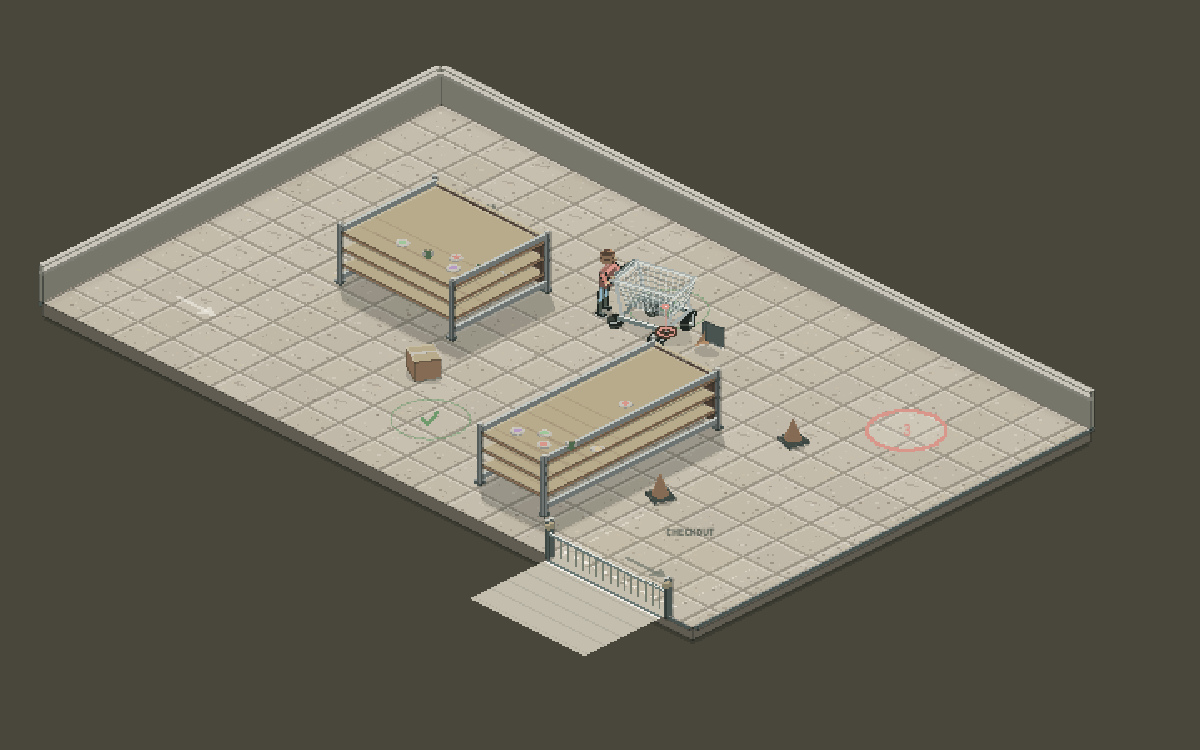
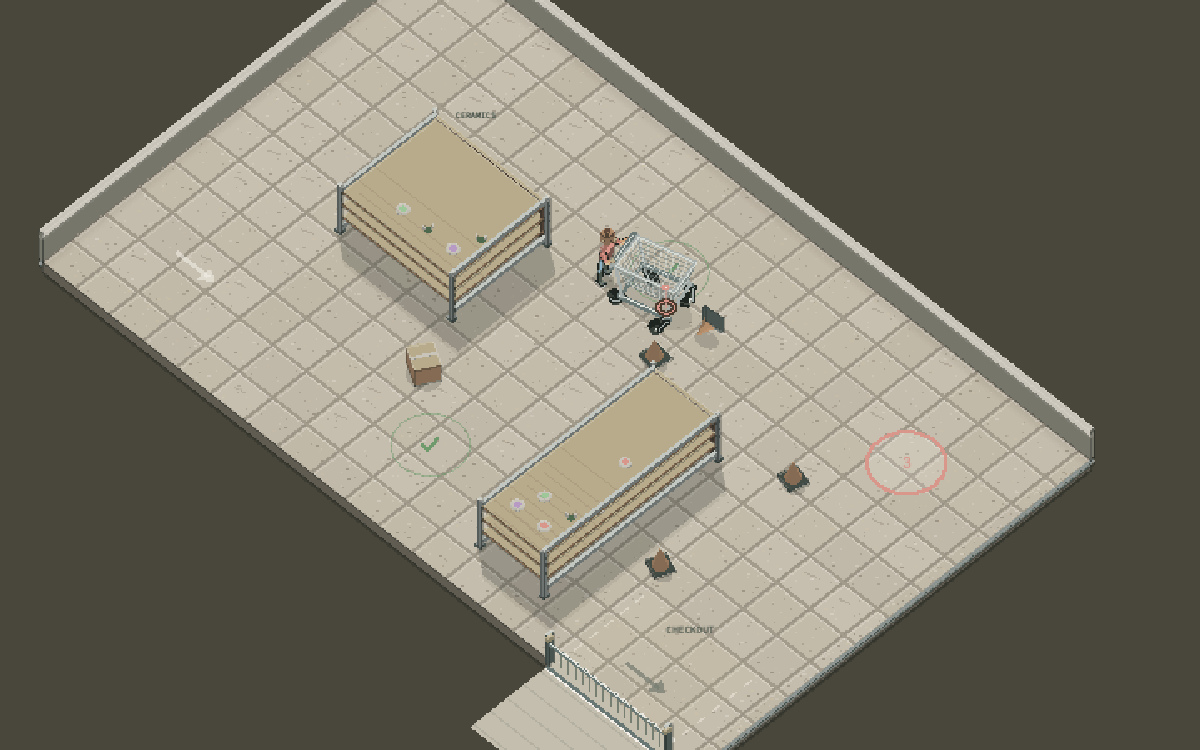
Raise the All Four Wheels camera for a clearer overhead view

diff --git a/four-wheels.html b/four-wheels.html
@@ -30,7 +30,7 @@
   <link rel="icon" type="image/png" sizes="32x32" href="/favicon-32.png">
   <link rel="apple-touch-icon" href="/apple-touch-icon.png">
   <link rel="stylesheet" href="style.css">
-  <link rel="stylesheet" href="four-wheels.css?v=14">
+  <link rel="stylesheet" href="four-wheels.css?v=15">
 </head>
 <body class="cart-page">
   <div class="site-wrapper">
@@ -61,7 +61,7 @@
           </header>
 
           <div class="cart-stage" id="cart-stage">
-            <canvas id="cart-canvas" width="720" height="480" tabindex="0" aria-label="Isometric shopping cart obstacle course. Touch each numbered checkpoint with the coral marker inside the basket. W or up to push, S or down to pull, A and D or left and right to turn, space to brake, P to pause, R to retry." aria-describedby="cart-instructions">This game needs a browser with canvas support. Touch each numbered checkpoint with the coral marker inside the basket, then drive out through checkout.</canvas>
+            <canvas id="cart-canvas" width="720" height="580" tabindex="0" aria-label="Isometric shopping cart obstacle course. Touch each numbered checkpoint with the coral marker inside the basket. W or up to push, S or down to pull, A and D or left and right to turn, space to brake, P to pause, R to retry." aria-describedby="cart-instructions">This game needs a browser with canvas support. Touch each numbered checkpoint with the coral marker inside the basket, then drive out through checkout.</canvas>
             <button class="cart-camera" id="cart-camera" type="button" aria-label="Show the whole course" aria-pressed="false" hidden>Overview</button>
             <div class="cart-overlay" id="cart-overlay" role="dialog" aria-modal="false" aria-labelledby="cart-overlay-title">
               <div class="cart-overlay-card">
@@ -136,11 +136,11 @@
     <footer class="site-footer"><div class="site-footer-inner"><a href="/">&copy; 2026 Ethan Willingham</a></div></footer>
   </div>
   <script src="js/main.js"></script>
-  <script src="js/four-wheels-stock.js?v=14"></script>
-  <script src="js/four-wheels-physics.js?v=14"></script>
-  <script src="js/four-wheels-levels.js?v=14"></script>
-  <script src="js/four-wheels-view.js?v=14"></script>
-  <script src="js/four-wheels.js?v=14"></script>
+  <script src="js/four-wheels-stock.js?v=15"></script>
+  <script src="js/four-wheels-physics.js?v=15"></script>
+  <script src="js/four-wheels-levels.js?v=15"></script>
+  <script src="js/four-wheels-view.js?v=15"></script>
+  <script src="js/four-wheels.js?v=15"></script>
   <script src="js/backtotop.js"></script>
 </body>
 </html>

diff --git a/js/four-wheels-view.js b/js/four-wheels-view.js
@@ -1,10 +1,11 @@
-/* All Four Wheels: a shared 2:1 isometric pixel renderer.
+/* All Four Wheels: a shared high-angle isometric pixel renderer.
  * The simulation stays in store coordinates. Every visible floor point,
  * caster, body, piece of furniture and airborne product uses this camera.
  */
 (function (root) {
   'use strict';
-  const CAMERA = Object.freeze({ width:720, height:480, x:264, y:70, horizontal:.84, vertical:.42, elevation:.95 });
+  // A roughly 52-degree pitch opens the basket and floor while retaining height.
+  const CAMERA = Object.freeze({ width:720, height:580, x:264, y:24, horizontal:.84, vertical:.66, elevation:.74 });
   const VIEW_Z = CAMERA.vertical * 2 / CAMERA.elevation;
   const project = (p, origin = CAMERA) => ({ x:origin.x + (p.x-p.y)*CAMERA.horizontal, y:origin.y + (p.x+p.y)*CAMERA.vertical - (p.z||0)*CAMERA.elevation });
   function unproject(p, z=0, origin=CAMERA) {
@@ -604,13 +605,13 @@
         }
         // The live overview uses the exact frame, with the current camera
         // rectangle and cart position, rather than a second map implementation.
-        const mw=144,mh=96,mx=width-mw-14,my=14;
+        const mapScale=.2,mw=CAMERA.width*mapScale,mh=CAMERA.height*mapScale,mx=width-mw-14,my=14;
         rect(g,mx-3,my-3,mw+6,mh+6,P.hairDark);g.drawImage(frame,mx,my,mw,mh);
         g.save();g.beginPath();g.rect(mx,my,mw,mh);g.clip();
-        const a={x:mx+(-camera.x/camera.scale)/5,y:my+(-camera.y/camera.scale)/5};
-        const b={x:a.x+width/camera.scale/5,y:a.y+height/camera.scale/5};
+        const a={x:mx+(-camera.x/camera.scale)*mapScale,y:my+(-camera.y/camera.scale)*mapScale};
+        const b={x:a.x+width/camera.scale*mapScale,y:a.y+height/camera.scale*mapScale};
         line(g,a,{x:b.x,y:a.y},P.light);line(g,{x:b.x,y:a.y},b,P.light);line(g,b,{x:a.x,y:b.y},P.light);line(g,{x:a.x,y:b.y},a,P.light);
-        const q=project(w.body);rect(g,mx+q.x/5-1,my+q.y/5-1,3,3,P.coral);g.restore();
+        const q=project(w.body);rect(g,mx+q.x*mapScale-1,my+q.y*mapScale-1,3,3,P.coral);g.restore();
       }
       g.restore();
     }

diff --git a/four-wheels.css b/four-wheels.css
@@ -120,7 +120,7 @@
 .cart-course-tile { position: relative; text-align: left; border: 1px solid var(--cart-line); border-radius: 8px; background: var(--cart-paper); color: var(--cart-ink); overflow: hidden; padding: 0; }
 .cart-course-tile:hover, .cart-course-tile.is-current { border-color: var(--cart-ink); box-shadow: 0 3px 0 var(--cart-ink); }
 .cart-course-tile.is-current::after { content: 'SELECTED'; position: absolute; top: .65rem; right: .65rem; padding: .3rem .5rem; border-radius: 3px; background: var(--cart-ink); color: var(--cart-paper); font-family: var(--font-mono); font-size: .55rem; letter-spacing: .06em; }
-.cart-course-tile canvas { display: block; width: 100%; aspect-ratio: 3 / 2; image-rendering: pixelated; border-bottom: 1px solid var(--cart-line); }
+.cart-course-tile canvas { display: block; width: 100%; aspect-ratio: 36 / 29; image-rendering: pixelated; border-bottom: 1px solid var(--cart-line); }
 .cart-course-tile-copy { display: block; padding: 1rem; }
 .cart-course-tile strong { display: block; margin-top: .35rem; font-family: var(--font-body); font-size: 1.2rem; font-weight: 700; letter-spacing: -.025em; }
 .cart-course-tile-meta { display: flex; justify-content: space-between; gap: .4rem; margin-top: .7rem; padding-top: .65rem; border-top: 1px dashed var(--cart-line); font-family: var(--font-mono); font-size: .58rem; color: var(--cart-muted); }

diff --git a/docs/FOUR_WHEELS.md b/docs/FOUR_WHEELS.md
@@ -14,10 +14,11 @@ feature flags, or build step.
 - `js/four-wheels-view.js`: shared isometric camera, pixel rasterizer and 3D scene.
 - `js/four-wheels.js`: input, audio, UI, fixed-step loop and local records.
 
-The canvas is 720 by 480 pixels and scales with image smoothing disabled.
-The physical store remains 480 by 300 world units. The shared 2:1 isometric
-camera projects every point as x = 264 + 0.84(x - y),
-y = 70 + 0.42(x + y) - 0.95z. Changing the camera does not change course
+The canvas is 720 by 580 pixels and scales with image smoothing disabled.
+The physical store remains 480 by 300 world units. The shared isometric camera
+looks down at roughly 52 degrees above the floor, opening up shelf tops and the
+empty basket. It projects every point as x = 264 + 0.84(x - y),
+y = 24 + 0.66(x + y) - 0.74z. Changing the camera does not change course
 geometry, forces, deadlines or saved records. Its inverse is exported for
 verification. Keyboard and touch controls remain relative to the cart's heading.
 Art is drawn locally from the site's warm palette, with silver metal for the
@@ -33,7 +34,7 @@ The page opens directly into the game, following Sluice's layout. The shell is
 route status and keyboard or touch controls. Desktop and landscape contain the
 whole course without stretching or cropping.
 Portrait uses a 480-pixel-wide canvas matching the stage's aspect ratio. The
-renderer first draws the same 720-by-480 scene, then presents a closer 1.8x
+renderer first draws the same 720-by-580 scene, then presents a closer 1.8x
 following view with nearest-pixel scaling. A live overview shows the full frame,
 cart and viewport, and offscreen markers have a numbered direction cue. The
 Overview button switches to a contained whole-store view without changing the
